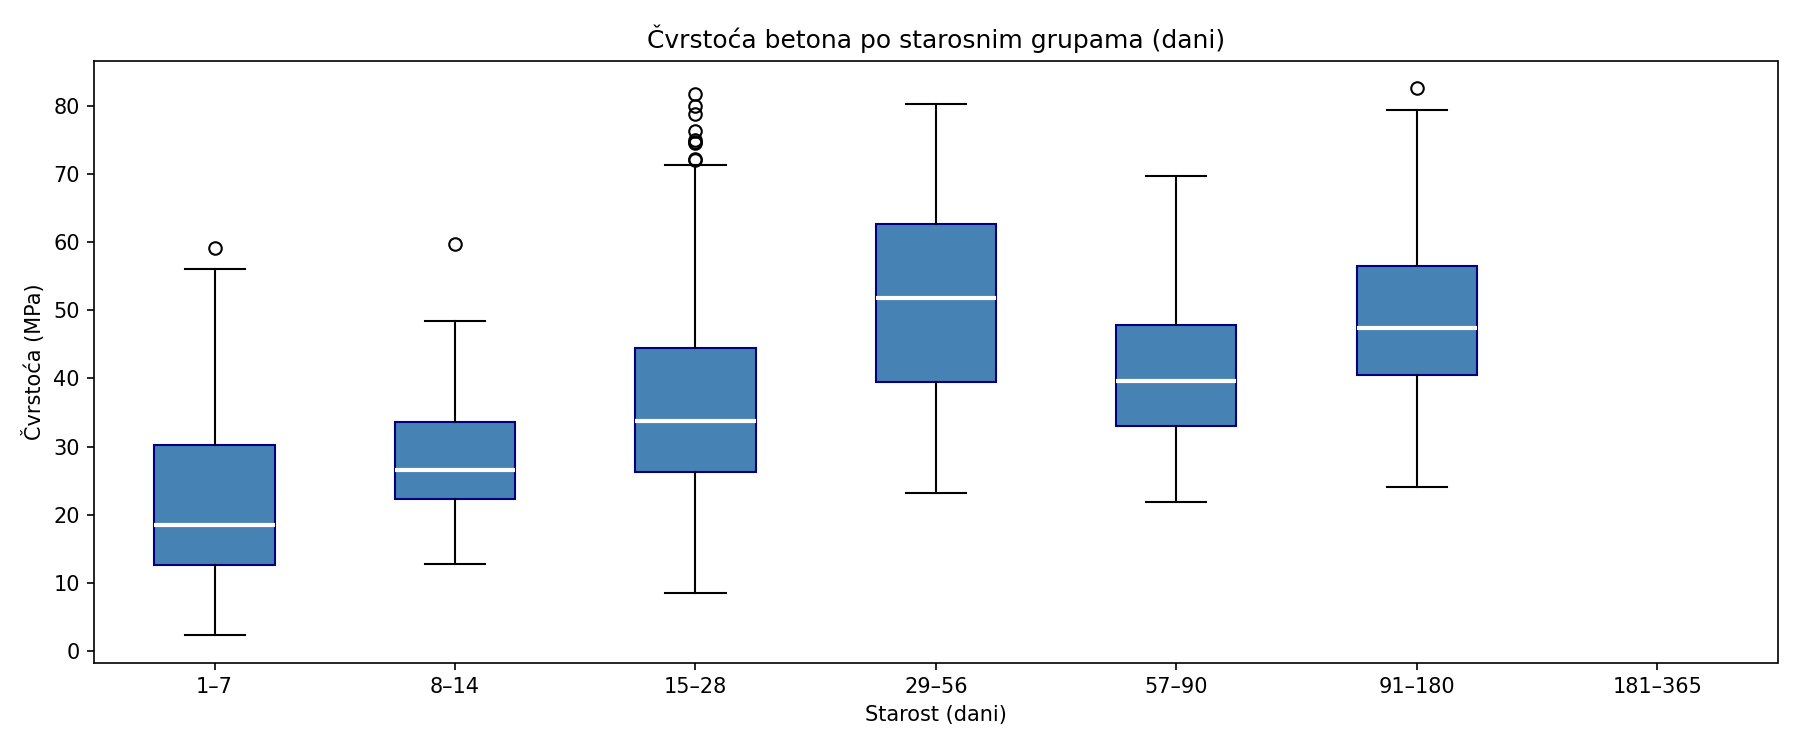
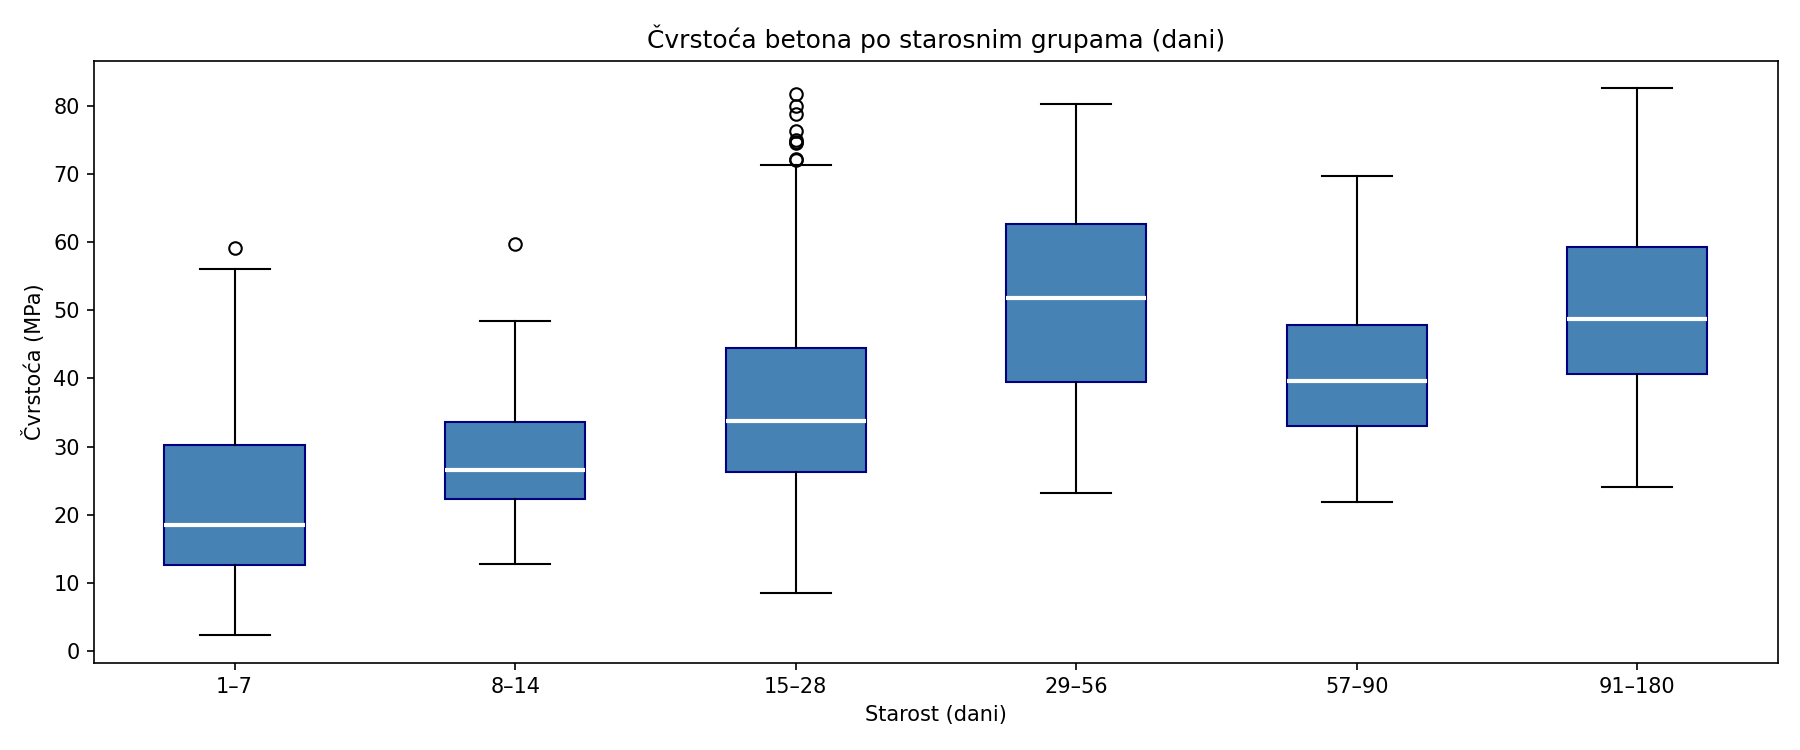
Add OLS model
Add a simple OLS model to src/models.py.

diff --git a/src/visualization.py b/src/visualization.py
@@ -99,8 +99,8 @@ def plot_scatter_vs_strength(df):
 
 def plot_age_vs_strength(df):
     df = df.copy()
-    bins = [0, 7, 14, 28, 56, 90, 180, 365]
-    labels = ["1–7", "8–14", "15–28", "29–56", "57–90", "91–180", "181–365"]
+    bins = [0, 7, 14, 28, 56, 90, 180]
+    labels = ["1–7", "8–14", "15–28", "29–56", "57–90", "91–180"]
     df["Age_group"] = pd.cut(df["Age"], bins=bins, labels=labels)
 
     groups = [df[df["Age_group"] == label][TARGET_COL].values for label in labels]
@@ -140,9 +140,9 @@ if __name__ == "__main__":
     df = load_data()
     print_data_overview(df)
     plot_strength_distribution(df)
+    plot_scatter_vs_strength(df)
+    plot_age_vs_strength(df)
+    plot_correlation_heatmap(df)
     plot_boxplots(df)
     df_capped = cap_outliers(df)
     plot_boxplots_after(df_capped)
-    plot_scatter_vs_strength(df_capped)
-    plot_age_vs_strength(df_capped)
-    plot_correlation_heatmap(df_capped)

diff --git a/src/preprocessing.py b/src/preprocessing.py
@@ -56,8 +56,9 @@ def split_data(df, random_state=42):
     return x_train, x_val, x_test, y_train, y_val, y_test
 
 
-def load_and_prepare():
+def load_and_prepare(cap=True):
     df = load_data()
     df = add_features(df)
-    df = cap_outliers(df)
+    if cap:
+        df = cap_outliers(df)
     return split_data(df)

diff --git a/src/models.py b/src/models.py
@@ -1,0 +1,7 @@
+from sklearn.linear_model import LinearRegression
+
+
+def train_ols(x_train, y_train):
+    model = LinearRegression()
+    model.fit(x_train, y_train)
+    return model
